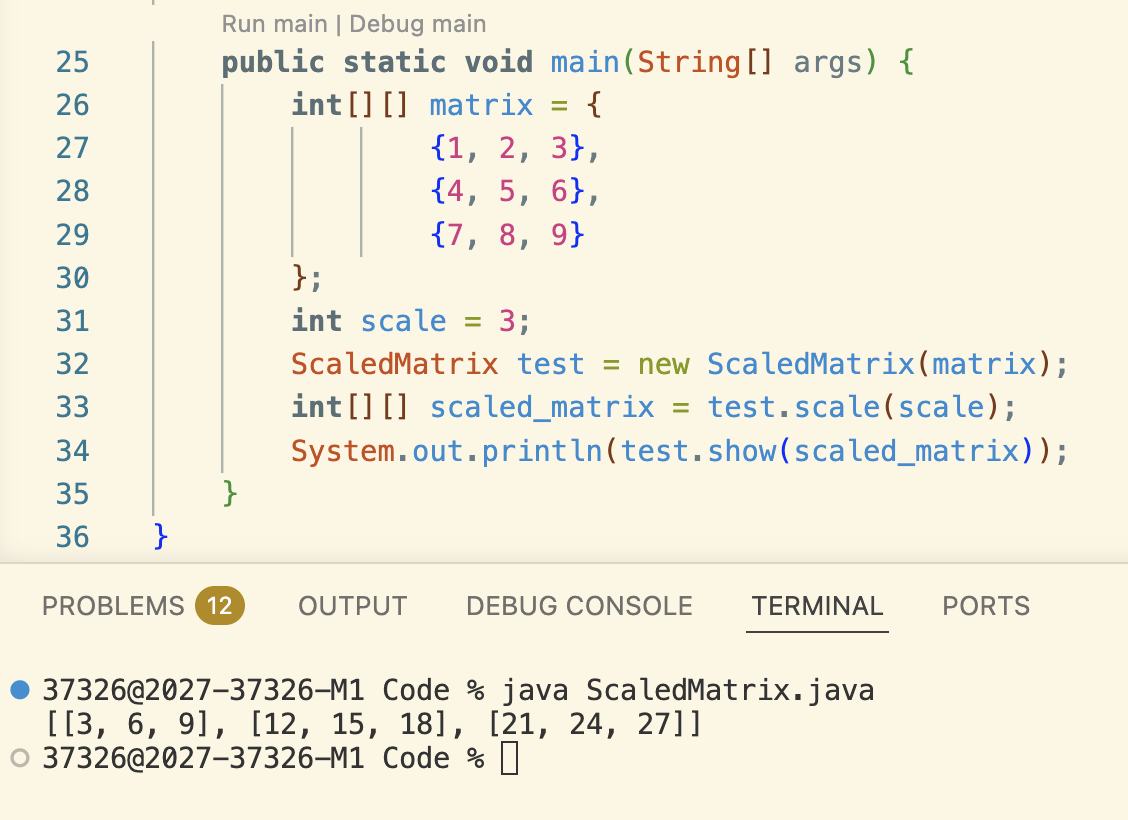
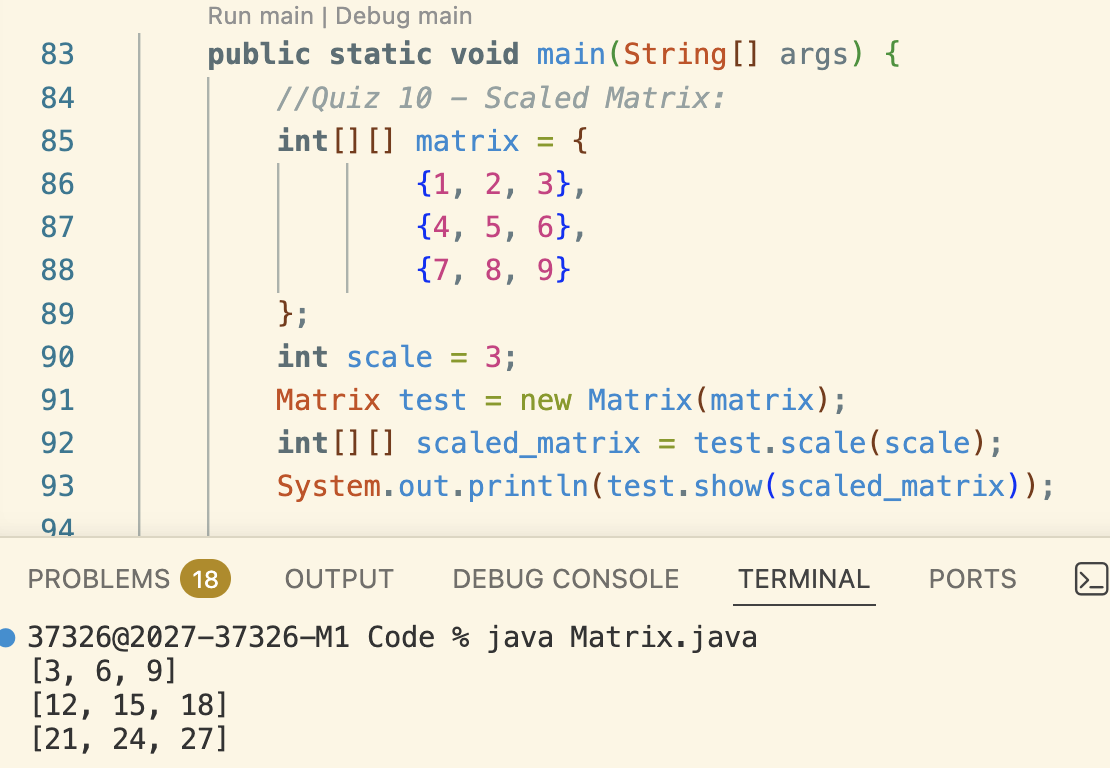
Updating Quiz 10

diff --git a/Quizzes/quizzes.md b/Quizzes/quizzes.md
@@ -326,13 +326,13 @@ Create a class that receives a 2D array and a integer, returns the array scaled 
 
 ### Code Solution:
 ```java
+
 import java.util.Arrays;
 
-public class ScaledMatrix {
+public class Matrix {
     private int[][] matrix;
-    private int scale;
 
-    public ScaledMatrix (int[][] matrix) {
+    public Matrix (int[][] matrix) {
         this.matrix = matrix;
     }
 
@@ -346,8 +346,12 @@ public class ScaledMatrix {
         return matrix;
     }
 
-    public String show(int[][] matrix) {
-        return Arrays.deepToString(matrix);
+    public String show(int[][] x) {
+        String string = "";
+        for (int r = 0; r < x.length; r++) {
+            string += Arrays.toString(x[r]) + "\n";
+        }
+        return string;
     }
 }
 ```
